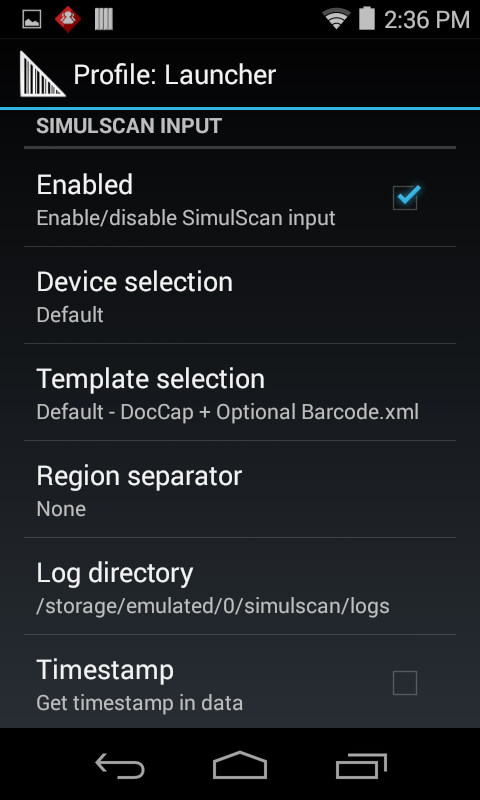
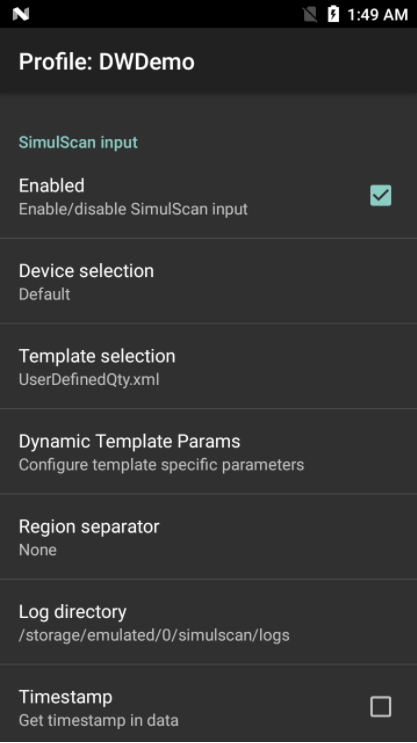
[TUT-21733] DW 6.7 simulscan dynamic template feature

diff --git a/src/datawedge/6-7/guide/api/importprofile/index.md b/src/datawedge/6-7/guide/api/importprofile/index.md
@@ -9,12 +9,11 @@ productversion: '6.7'
 
 Introduced in DataWedge 6.7.
 
-Used to import a Profile, which contains configuration settings for a particular application. 
+Used to import a Profile, which contains DataWedge configuration settings for a particular application. 
 
-### Import Behavior
-
-* When the `IMPORT_CONFIG` intent is called, it checks the `FOLDER_PATH` for the presence of configuration files. If `datawedge.db` is found, DataWedge restarts with the settings stored there. 
-* If a folder specified with this API contains any Profile configuration files (i.e. `dwprofile_profilename.db`) related to the newly loaded Profile, that Profile loads and the new settings are applied immediately.
+### Intent Behavior
+* When the `IMPORT_PROFILE` intent is called, it checks the folder specified with the `FOLDER_PATH` attribute for the presence of DataWedge database (`*.db`) files. If `datawedge.db` is found, DataWedge restarts with the settings stored there. 
+* If the specified folder contains any Profile configuration files (i.e. `dwprofile_profilename.db`) related to the newly loaded database, that Profile loads and its settings are applied immediately.
 * While the `IMPORT_CONFIG` intent is running, the Auto Import function is disabled. 
 
 [More about importing Profiles](../../settings/#importaprofile)
@@ -31,11 +30,11 @@ Used to import a Profile, which contains configuration settings for a particular
 
 **EXTRA_DATA** [String]: "com.symbol.datawedge.api.IMPORT_CONFIG"
 
-**BUNDLE**: &lt;mainbundle&gt; (see parameters below)
+**BUNDLE**: &lt;mainbundle&gt;
 
 * **FOLDER_PATH** [String]: (required) The fully qualified on-device path to the file being imported.  
 
-* **FILE_LIST** [String ArrayList]: (optional) Used to specify one or more required database (`.db`) files in the folder specified in `FOLDER_PATH`. If not specified, DataWedge uses files with a `.db` extension in the specified folder. **Can be used to specify a specific file**. 
+* **FILE_LIST** [String ArrayList]: (optional) Used to specify one or more required database (`.db`) files in the folder specified in `FOLDER_PATH`. If not specified, DataWedge uses files with a `.db` extension in the specified folder. 
 
 **Zebra recommends using the `getExternalFilesDirs` method** to identify accessible external storage locations in the device before sending the `IMPORT_PROFILE` intent. For example: 
 
@@ -50,23 +49,18 @@ Used to import a Profile, which contains configuration settings for a particular
 
 ### Result Codes
 
-Following the use of `IMPORT_PROFILE`, DataWedge broadcasts a result intent with the  status (success or failure) of the import. Result info returns as an ArrayList of bundles containing `RESULT_CODE` and `RESULT_CODE_INFO` sections to describe the additional information.
+After an `IMPORT_PROFILE` intent is sent, DataWedge broadcasts a result intent with the  status (success or failure) of the import. Result info is returned as an ArrayList of bundles containing `RESULT_CODE` and `RESULT_CODE_INFO` sections to describe the additional information.
 
-**RESULT_CODE -** INVALID_FOLDER_PATH
-**RESULT_CODE_INFO -** “folder path”
-
-**RESULT_CODE -** CONFIG_FILE_NOT_EXIST
-**RESULT_CODE_INFO -** “dwprofile_profilename.txt" , “dwA_profilename.db”
-
-New RESULT_CODE set
-Following result code will return with the specified folder/file name
-
-**EMPTY_FOLDER_PATH –** `FOLDER_PATH` is empty or not specified
-**INVALID_FOLDER_PATH –** Specified `FOLDER_PATH` is invalid
-**INVALID_CONFIG_FILE –** Corrupted DataWedge database files present in the folder
-**CONFIG_FILE_NOT_EXIST -** No valid DataWedge database files in the folder
-**INVALID_FILE_NAME –** Folder contains valid and invalid DataWedge .db file names; returns invalid file name(s)
-**CANNOT_READ_FILE –** Cannot read the specified database file
+* **RESULT_CODE -** CONFIG_FILE_NOT_EXIST
+* **EMPTY_FOLDER_PATH –** Specified `FOLDER_PATH` is empty or not specified
+* **INVALID_FOLDER_PATH –** Specified `FOLDER_PATH` is invalid
+ * **RESULT_CODE_INFO -** “&lt;folder path&gt;”
+* **INVALID_CONFIG_FILE –** Corrupted database files present in specified folder
+* **CONFIG_FILE_NOT_EXIST -** No valid DataWedge database files in the folder
+ * **RESULT_CODE_INFO -** “dwprofile_&lt;profilename&gt;.txt" , “dwA_&lt;profilename&gt;.db”
+* **INVALID_FILE_NAME –** Folder contains valid and invalid DataWedge .db file names
+ * **RESULT_CODE_INFO -** "&lt;invalid file name&gt;"
+* **CANNOT_READ_FILE –** Cannot read the specified database file
 
 [More about Result Codes](../resultinfo)  
 
@@ -91,6 +85,7 @@ Error messages are logged for invalid actions and parameters
 	fileNames.add("dwprofile_profileB.db");
 
 	bMain.putStringArrayList("FILE_LIST", fileNames);
+
 	// send the intent
 	Intent i = new Intent();
 	i.setAction(ACTION);

diff --git a/src/datawedge/6-7/guide/input/simulscan/index.md b/src/datawedge/6-7/guide/input/simulscan/index.md
@@ -39,6 +39,21 @@ Custom template XML files copied to the `/enterprise/device/settings/datawedge/t
 
 Zebra partners and other authorized users can create custom templates online using Zebra's [SimulScan Template Builder](../../../../../simulscan/1-1/guide/templatebuilder). 
 
+**Dynamic Template Params –** permits the configuration of parameters when using Dynamic Templates. Currently allows the number of barcodes (from 1-99) to be decoded on a form to be specified. 
+
+This configuration option will be enabled only when the selected template has dynamic parameters. If no dynamic parameters present for the selected template, this option will be disabled.
+When a template with dynamic parameters is selected from the “Template Selection”, a dialog will be prompted to configure dynamic template parameters. For templates without any parameters, this prompt message will not be shown.
+
+<img style="height:350px" src="dynamic_template.png"/>
+_Dynamic Barcode Quantity_
+<br>
+
+* **Dynamic Quantity -** is a dynamic template parameter that can be added when a template is created using the [Zebra Template Builder](http://simulscan.zebra.com/) online tool. 
+
+This parameter specifies how many barcodes needed be captured in a form. Value can be set from 1 to 99. The default value is 5. 
+
+Ex: if a document with 5 barcodes scanned with Dynamic Quantity specified as 3, then only 3 barcodes will be scanned out of 5.  There is no way to specify what barcodes to scan as it will scan any 3 out of the 5.
+
 **Region separator -** used to configure a separator character for SimulScan text-region data (see Notes, below). When multiple text regions exist, the region separator will be inserted between the data strings from each region on the acquisition form. Region separators can be used with the [Keystroke Output Action key](../../output/keystroke) character settings to dispatch SimulScan region data to separate text fields.
 
 **Possible values**:

diff --git a/src/datawedge/6-7/guide/about/index.md b/src/datawedge/6-7/guide/about/index.md
@@ -44,8 +44,7 @@ To learn more about DataWedge APIs, read [DataWedge APIs - Benefits & Usage Scen
 
 **A Dynamic Templates parameter** allows the number of barcodes (from 1-99) to be decoded for a form to be specified.
 
-
-
+-----
 
 ## Version History
 
